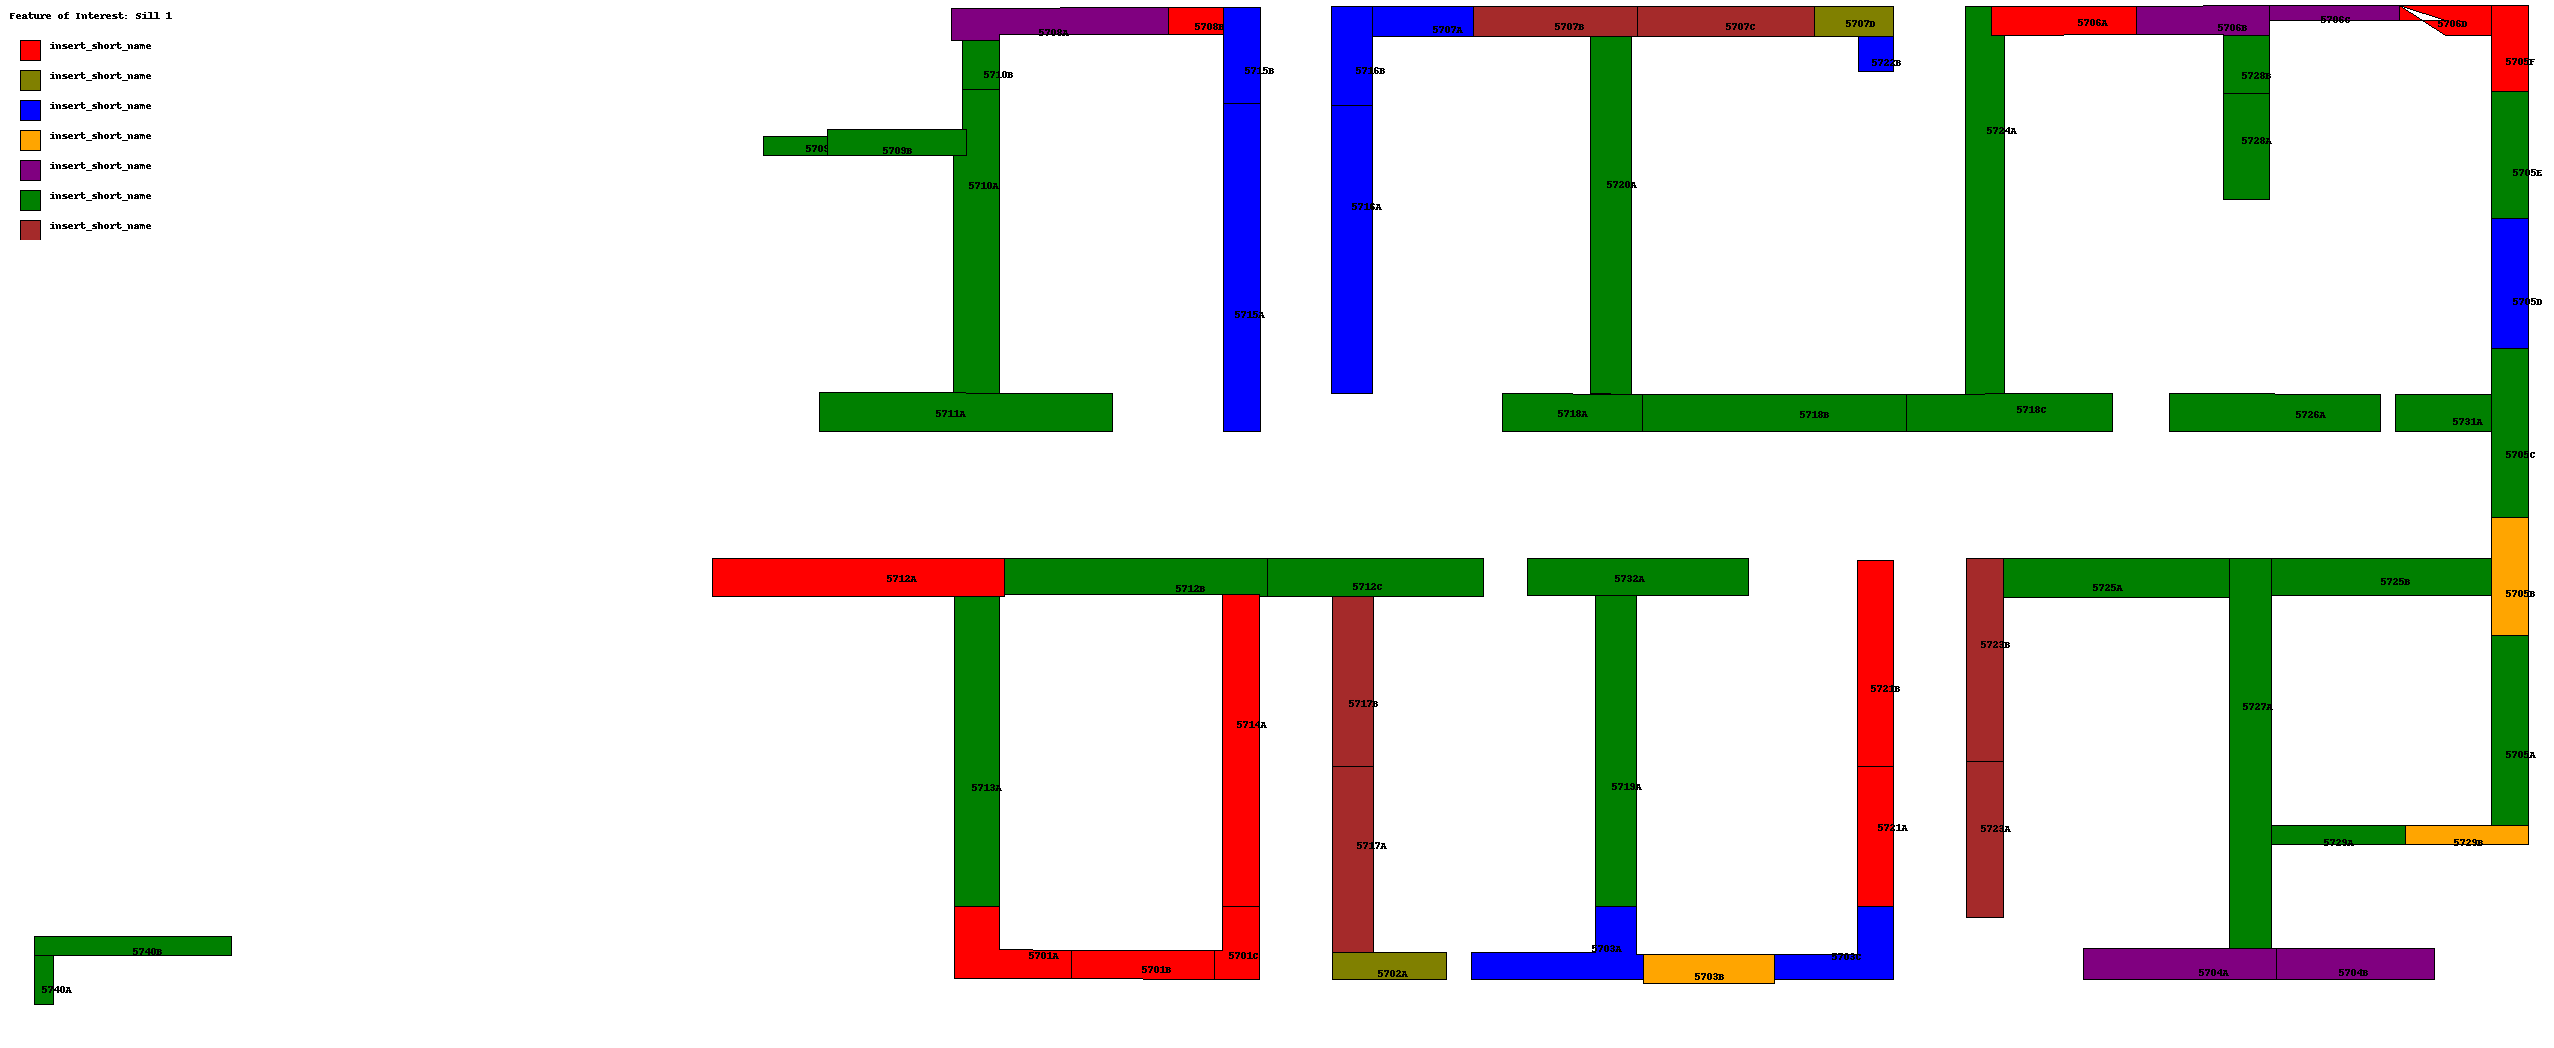
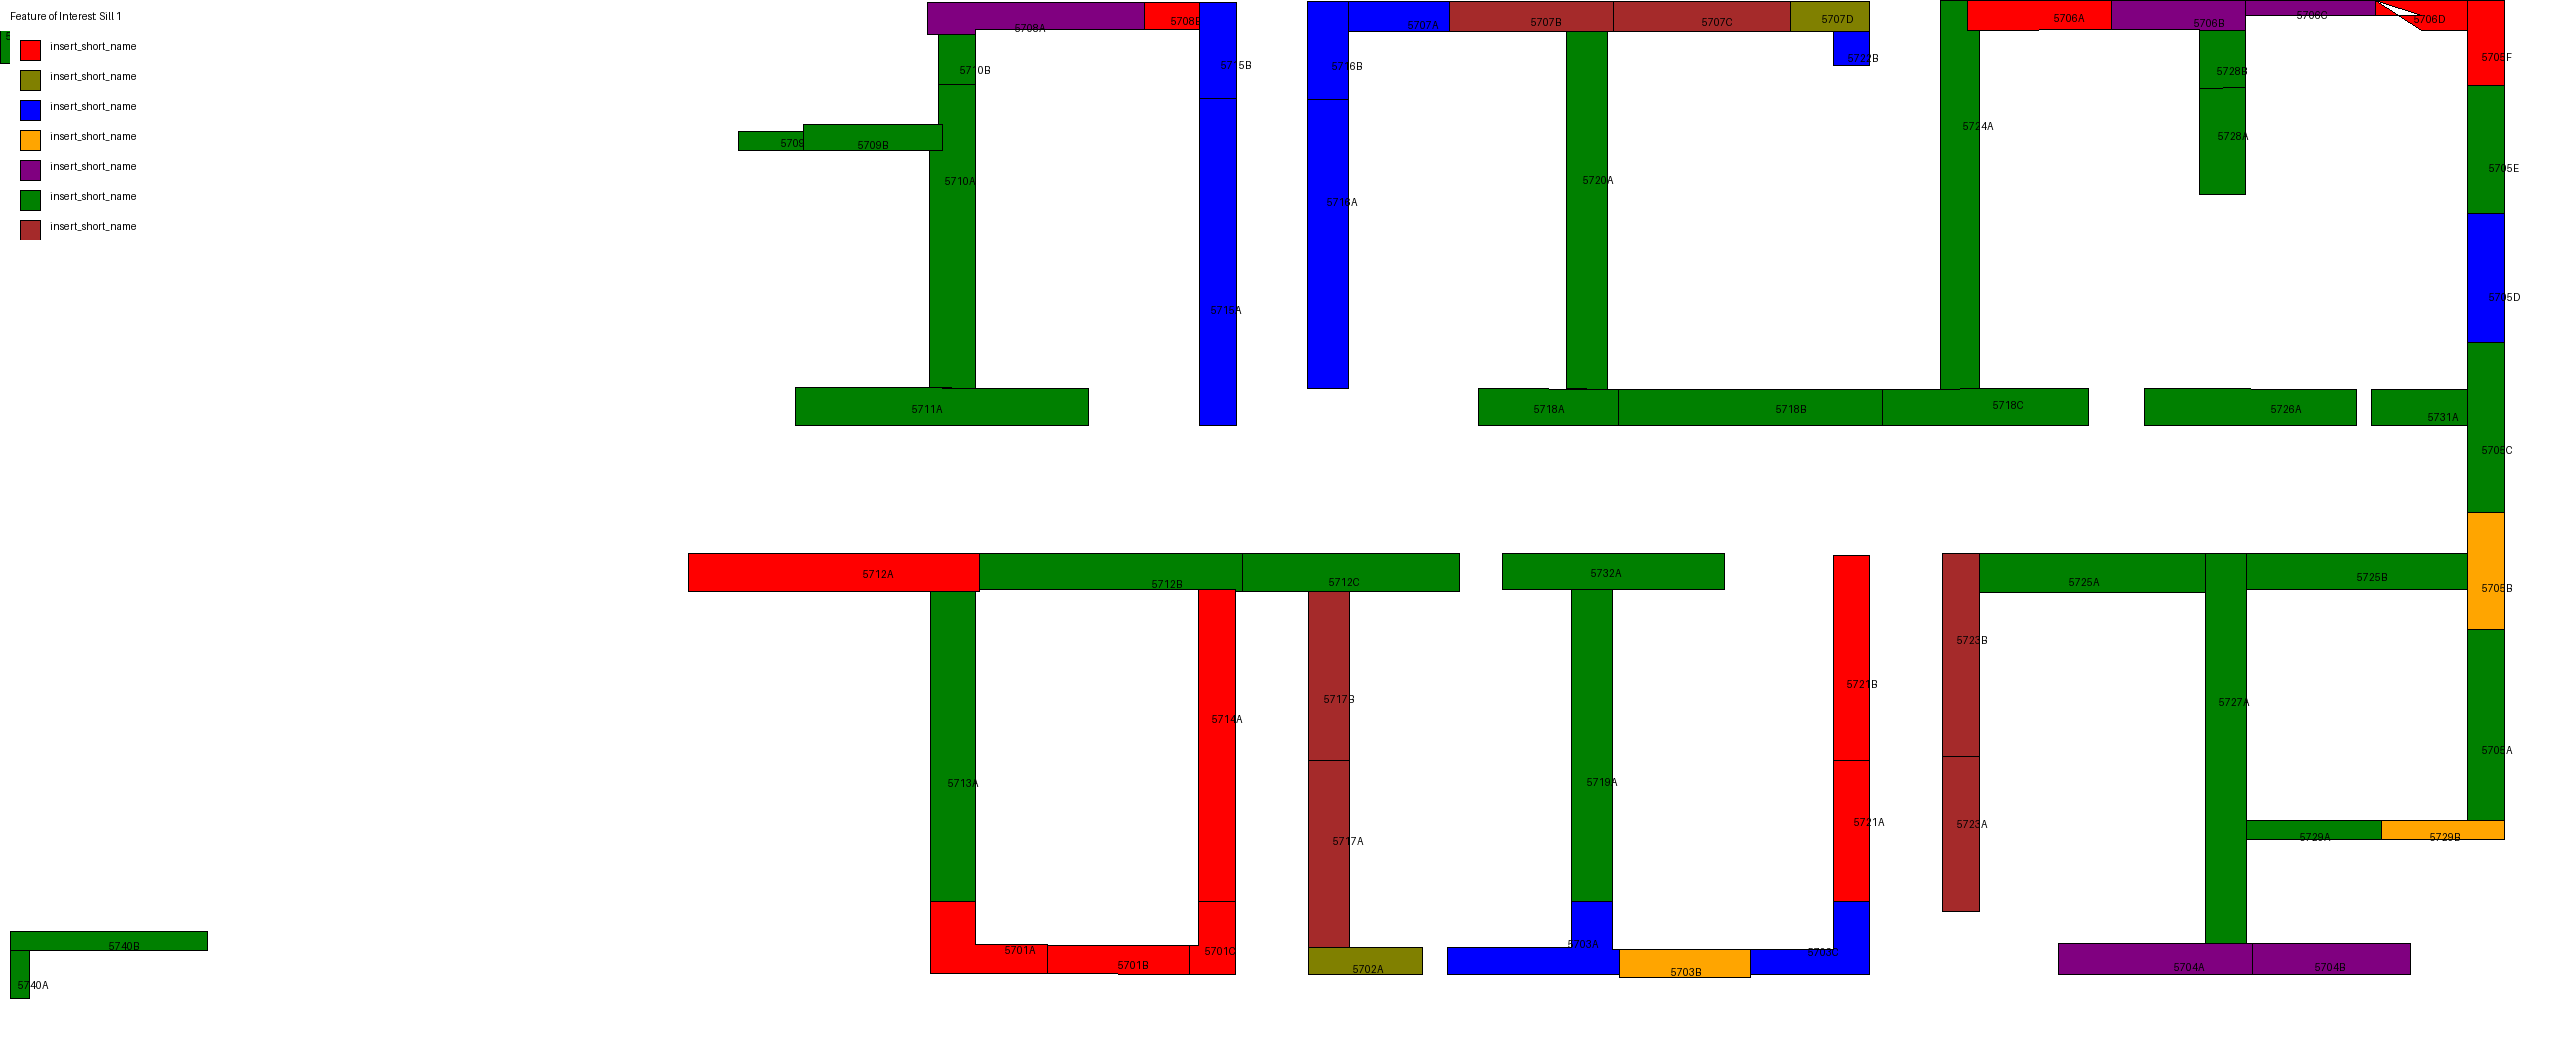
fixed coordinate issue, updated readme

Changed region(s): [[0.2475, 0.0, 1.0, 0.9466], [0.0, 0.0, 0.0619, 0.2443], [0.0, 0.8855, 0.0928, 0.9771]]

diff --git a/map_maker.py b/map_maker.py
@@ -40,6 +40,8 @@ class DataProcessor:
 
         self.image_width = int(max_x - min_x) + 50
         self.image_height = int(max_y - min_y) + 50
+        self.min_y = min_y
+        self.min_x = min_x
 
     # def extract_feature_columns(self):
     #     with open(self.csv_file_path, 'r') as csv_file:
@@ -81,26 +83,24 @@ class DataProcessor:
         }
 
 class ShapeDrawer:
-    def __init__(self, points_df, feature_df, nested_dict, feature_of_interest, image_width, image_height):
-        self.points_df = points_df
-        self.feature_df = feature_df
-        self.nested_dict = nested_dict
+    def __init__(self, feature_of_interest, processor):
+        self.processor = processor
         self.feature_of_interest = feature_of_interest
-        self.image = Image.new('RGB', (image_width, image_height), 'white')
+        self.image = Image.new('RGB', (processor.image_width, processor.image_height), 'white')
         self.draw = ImageDraw.Draw(self.image)
 
     def draw_discrete_shapes(self):
         colors = []
         labels = []
 
-        for index, row in self.points_df.iterrows():
-            coordinates = [(float(coord.split(',')[0]), float(coord.split(',')[1])) for coord in row[1:] if pd.notna(coord)]
+        for index, row in self.processor.points_df.iterrows():
+            coordinates = [(float(coord.split(',')[0])-self.processor.min_x, float(coord.split(',')[1])-self.processor.min_y) for coord in row[1:] if pd.notna(coord)]
             if coordinates:
                 shape_name = row['Unnamed: 0']
-                feature_value = self.feature_df.query("`Unnamed: 0` == @shape_name")[self.feature_of_interest].values[0]
-                color = self.nested_dict['discrete'][self.feature_of_interest][str(int(feature_value))]['color']
+                feature_value = self.processor.feature_df.query("`Unnamed: 0` == @shape_name")[self.feature_of_interest].values[0]
+                color = self.processor.nested_dict['discrete'][self.feature_of_interest][str(int(feature_value))]['color']
                 if color not in colors:
-                    label = self.nested_dict['discrete'][self.feature_of_interest][str(int(feature_value))]['legend']
+                    label = self.processor.nested_dict['discrete'][self.feature_of_interest][str(int(feature_value))]['legend']
                     colors.append(color)
                     labels.append(label)
 
@@ -131,14 +131,14 @@ class ShapeDrawer:
         self.draw.text(title_position, title_text, fill='black')
 
     def draw_continuous_shapes(self):
-        for index, row in self.points_df.iterrows():
-            coordinates = [(float(coord.split(',')[0]), float(coord.split(',')[1])) for coord in row[1:] if pd.notna(coord)]
+        for index, row in self.processor.points_df.iterrows():
+            coordinates = [(float(coord.split(',')[0])-self.processor.min_x, float(coord.split(',')[1])-self.processor.min_y) for coord in row[1:] if pd.notna(coord)]
             if coordinates:
                 shape_name = row['Unnamed: 0']
-                feature_value = self.feature_df.query("`Unnamed: 0` == @shape_name")[self.feature_of_interest].values[0]
-                colorscale = self.nested_dict['continuous'][self.feature_of_interest].capitalize()
-                min_value = min(self.feature_df[self.feature_of_interest])
-                max_value = max(self.feature_df[self.feature_of_interest])
+                feature_value = self.processor.feature_df.query("`Unnamed: 0` == @shape_name")[self.feature_of_interest].values[0]
+                colorscale = self.processor.nested_dict['continuous'][self.feature_of_interest].capitalize()
+                min_value = min(self.processor.feature_df[self.feature_of_interest])
+                max_value = max(self.processor.feature_df[self.feature_of_interest])
                 normalized_value = (feature_value - min_value) / (max_value - min_value)
                 grayscale_value = int(255 * normalized_value)
                 color = (grayscale_value, grayscale_value, grayscale_value)
@@ -190,14 +190,12 @@ def main():
     for feature_of_interest in feature_of_interests:
         if feature_of_interest in processor.nested_dict['discrete']:
             print(f"{feature_of_interest} is a discrete feature.")
-            drawer = ShapeDrawer(processor.points_df, processor.feature_df, processor.nested_dict, feature_of_interest,
-                                 processor.image_width, processor.image_height)
+            drawer = ShapeDrawer(feature_of_interest, processor)
             drawer.draw_discrete_shapes()
             drawer.save_image(f"{feature_of_interest}.png")
         elif feature_of_interest in processor.nested_dict['continuous']:
             print(f"{feature_of_interest} is a continuous feature.")
-            drawer = ShapeDrawer(processor.points_df, processor.feature_df, processor.nested_dict, feature_of_interest,
-                                 processor.image_width, processor.image_height)
+            drawer = ShapeDrawer(feature_of_interest, processor)
             drawer.draw_continuous_shapes()
             drawer.save_image(f"{feature_of_interest}.png")
         else:

diff --git a/README.md b/README.md
@@ -40,12 +40,6 @@ run boundingBoxes2.py in the same place as your .dxf.
 copy the output_blocks.csv and add feature columns to it. save that as output_blocks_cont.csv
 make sure that the first row is filled in, has a decimal if it needs to be continuous, and has a whole number if its categorical
 
-
 # Extracting the names, points, and creating images from feature vectors
-run readCSV8.py in the same place as "output_blocks_cont.csv"
-you hard coded the number of feature columns so if you add another feature update that variable at the top ofthe code i readCSV.
-FYI: num features does not include wall name or any of the geometry points
-
-when cleaning CSV make sure that columns are properly formatted as number if they are a float and as general if they are an int
-one example is wall rank should be a number so it gets put into the system as a scaled quantity and not just 0,1,2,3,4.
-
+run mapmaker.py in the same place as "output_blocks_cont.csv"
+to install reqs do: pip install -r requirements.txt
